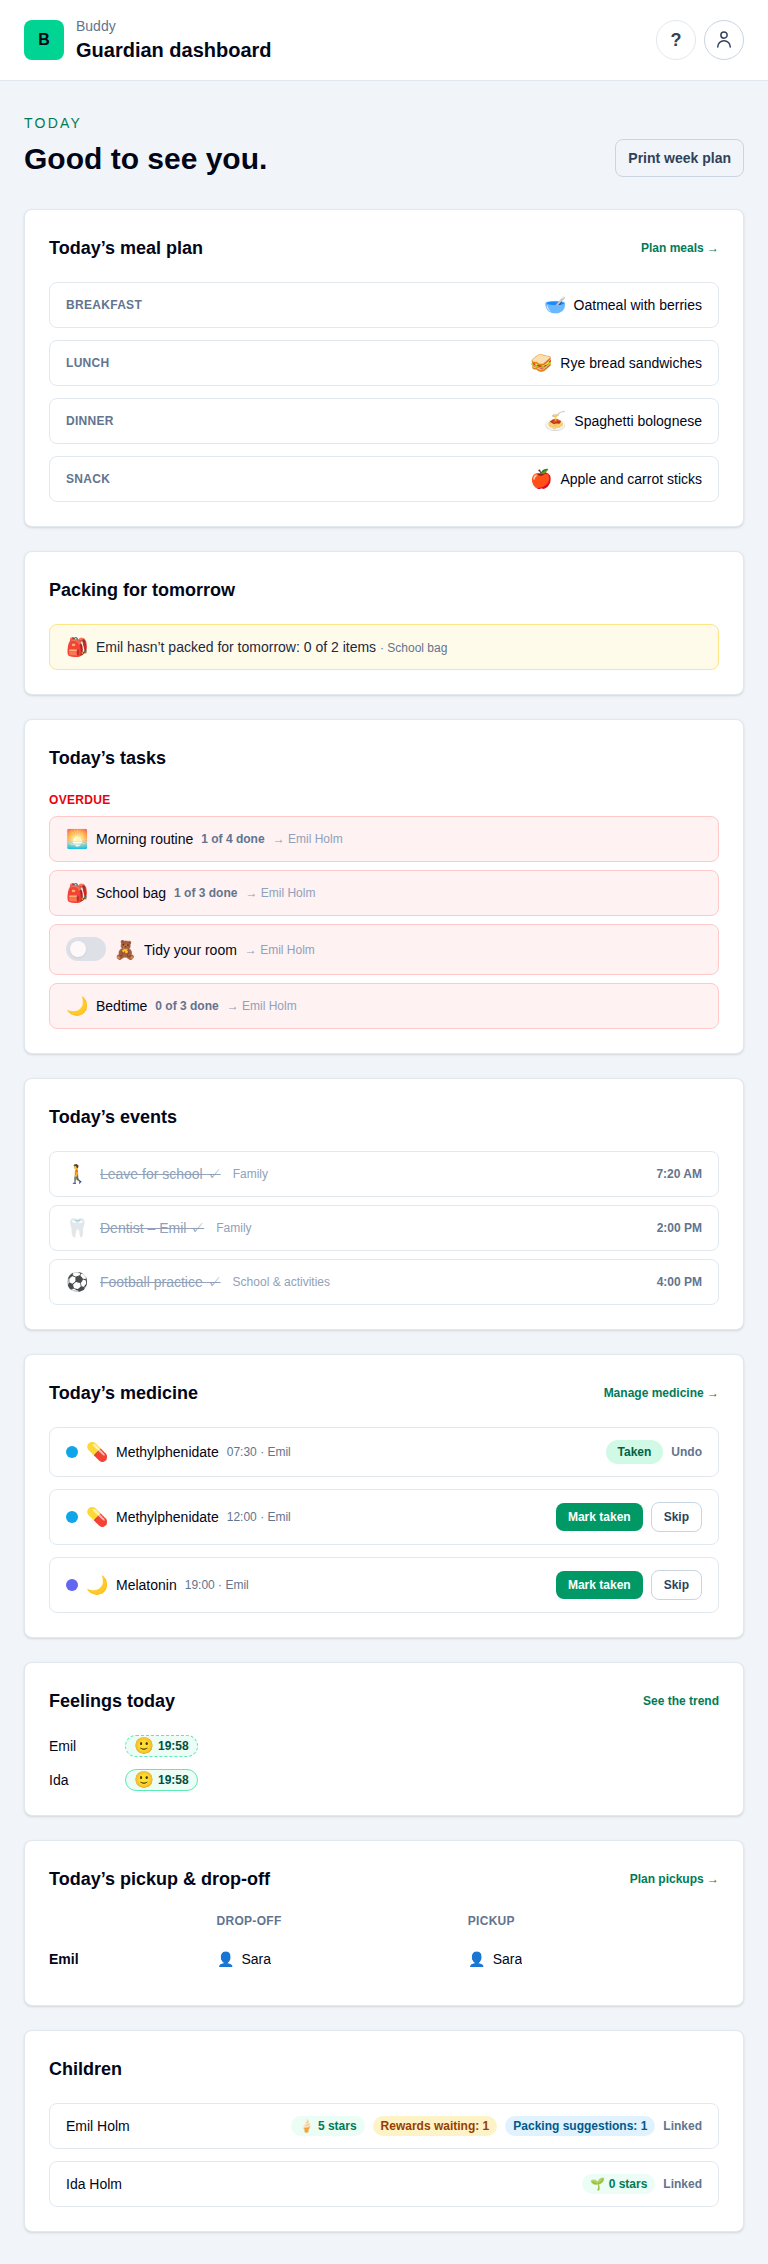
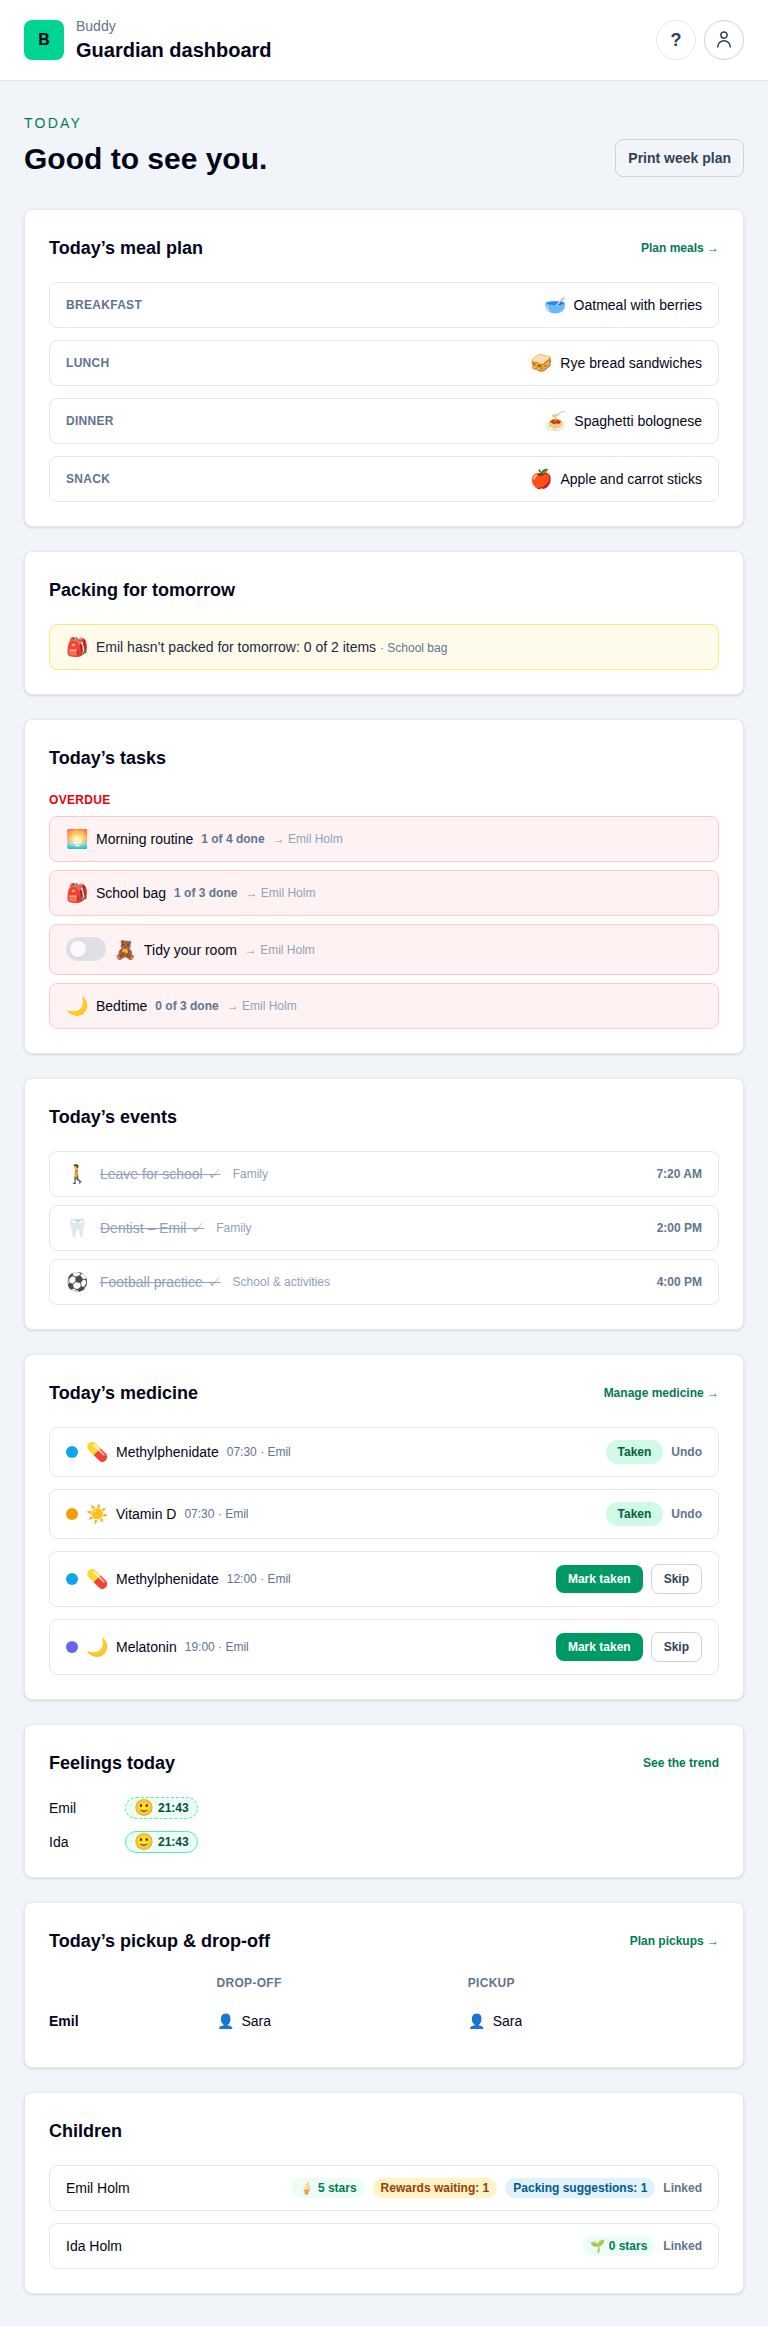
fix(feelings): group doses taken at the same time, in each medicine's colour
Two medicines at the same time drew identical violet lines on top of each
other, and screen readers heard "Medicine taken at 08:00" twice with no
names. The trend now draws one marker per time: a neutral guide line and a
square per medicine in its own colour (sorted by name), with a tooltip and
one screen-reader line naming each medicine and dosage. The demo family
gets a second 07:30 medicine and a week of taken doses, so the screenshot
shows a pair.

diff --git a/src/frontend/buddy/src/app/shared/feelings-trend/feelings-trend.ts b/src/frontend/buddy/src/app/shared/feelings-trend/feelings-trend.ts
@@ -1,5 +1,6 @@
 import { Component, computed, inject, input, output } from '@angular/core';
 
+import { sortByName } from '../../core/array-utils';
 import { addDaysIso, parseIsoDate } from '../../core/date-utils';
 import { TAG_LABEL_KEYS, toMinutes, zoneInfo } from '../../core/feelings';
 import type { FeelingCheckIn } from '../../core/feelings.service';
@@ -20,13 +21,32 @@ interface Mark {
   summary: string;
 }
 
+// One taken dose, as the guardian page passes it in.
+export interface TrendDose {
+  time: string;
+  name: string;
+  dosage: string;
+  color: string;
+}
+
+// The doses taken at one time of day: one guide line and a coloured square per medicine.
+interface DoseGroup {
+  time: string;
+  left: number;
+  medicines: { name: string; color: string }[];
+  label: string;
+}
+
 interface Row {
   date: string;
   label: string;
   sleep: { hours: number; minutes: number } | null;
   marks: Mark[];
-  doses: { time: string; left: number }[];
+  doses: DoseGroup[];
 }
+
+// The square's colour when a medicine has none: the violet the doses used before.
+const FALLBACK_DOSE_COLOR = '#8b5cf6';
 
 export function axisPercent(time: string): number {
   const minutes = Math.min(AXIS_END, Math.max(AXIS_START, toMinutes(time)));
@@ -36,7 +56,7 @@ export function axisPercent(time: string): number {
 /**
  * The 14-day grid (docs/backend/analysis/feelings-check-in.md, Question 7): one row per day, each
  * check-in a face on a time-of-day axis -- filled for the child's own, outlined for an adult's
- * observation -- with taken doses as lines and the previous night's sleep in its own column. A
+ * observation -- with taken doses as squares in the medicine's colour, grouped by time, and the previous night's sleep in its own column. A
  * plain table, no chart library; colour is never the only signal (face, shape and a screen-reader
  * summary per mark). The guardian page and the doctor's shared page both draw it; the shared page
  * leaves out sleep and doses.
@@ -53,8 +73,8 @@ export class FeelingsTrend {
   readonly checkIns = input.required<readonly FeelingCheckIn[]>();
   // Sleep minutes by the night's date (the evening it started); day D shows the night of D-1.
   readonly sleepByNight = input<Readonly<Record<string, number | null>> | null>(null);
-  // Taken dose times by date; null leaves the markers out.
-  readonly dosesByDate = input<Readonly<Record<string, readonly string[]>> | null>(null);
+  // Taken doses by date; null leaves the markers out.
+  readonly dosesByDate = input<Readonly<Record<string, readonly TrendDose[]>> | null>(null);
   readonly selectedDate = input<string | null>(null);
   readonly selectable = input(true);
 
@@ -91,12 +111,41 @@ export class FeelingsTrend {
         label: day.toLocaleDateString(locale, { weekday: 'short', day: 'numeric', month: 'short' }),
         sleep: night === null ? null : { hours: Math.floor(night / 60), minutes: night % 60 },
         marks: (byDate.get(date) ?? []).map((checkIn) => this.mark(checkIn)),
-        doses: (doses?.[date] ?? []).map((time) => ({ time, left: axisPercent(time) })),
+        doses: this.doseGroups(doses?.[date] ?? []),
       };
     });
   });
 
   protected readonly showSleep = computed(() => this.sleepByNight() !== null);
+
+  // Doses at the same time share one marker, so two medicines at 08:00 don't draw on top of each
+  // other; the label names every medicine, for the tooltip and screen readers. Sorted by name, so a
+  // medicine keeps its place in the marker from day to day.
+  private doseGroups(doses: readonly TrendDose[]): DoseGroup[] {
+    const byTime = new Map<string, TrendDose[]>();
+
+    for (const dose of doses) {
+      byTime.set(dose.time, [...(byTime.get(dose.time) ?? []), dose]);
+    }
+
+    return [...byTime.entries()]
+      .sort(([a], [b]) => a.localeCompare(b))
+      .map(([time, unsorted]) => [time, sortByName(unsorted)] as const)
+      .map(([time, group]) => ({
+        time,
+        left: axisPercent(time),
+        medicines: group.map((dose) => ({
+          name: dose.name,
+          color: dose.color || FALLBACK_DOSE_COLOR,
+        })),
+        label: this.translation.translate('feelings.guardian.trend.dose', {
+          time,
+          medicines: group
+            .map((dose) => (dose.dosage ? `${dose.name} ${dose.dosage}` : dose.name))
+            .join(', '),
+        }),
+      }));
+  }
 
   private mark(checkIn: FeelingCheckIn): Mark {
     const info = zoneInfo(checkIn.zone);

diff --git a/src/frontend/buddy/src/app/shared/feelings-trend/feelings-trend.spec.ts b/src/frontend/buddy/src/app/shared/feelings-trend/feelings-trend.spec.ts
@@ -79,13 +79,57 @@ describe('FeelingsTrend', () => {
   });
 
   it('marks taken doses only when doses are given', async () => {
-    const withDoses = await setup({ dosesByDate: { '2026-10-13': ['08:00'] } });
-    expect(row(withDoses.el, '2026-10-13').textContent).toContain('Medicine taken at 08:00');
-    expect(withDoses.el.textContent).toContain('Line: medicine taken');
+    const withDoses = await setup({
+      dosesByDate: {
+        '2026-10-13': [{ time: '08:00', name: 'Ritalin', dosage: '10 mg', color: '#2563eb' }],
+      },
+    });
+    expect(row(withDoses.el, '2026-10-13').textContent).toContain(
+      'Medicine taken at 08:00: Ritalin 10 mg',
+    );
+    expect(withDoses.el.textContent).toContain('Square: medicine taken, in its colour');
 
     TestBed.resetTestingModule();
     const without = await setup({});
     expect(without.el.textContent).not.toContain('medicine taken');
+  });
+
+  it('groups medicines taken at the same time into one marker, a square per medicine in its colour', async () => {
+    const { el } = await setup({
+      dosesByDate: {
+        '2026-10-13': [
+          { time: '19:30', name: 'Melatonin', dosage: '', color: '' },
+          // Out of name order, as the doses endpoint may return them.
+          { time: '08:00', name: 'Vitamin D', dosage: '1 tablet', color: '#f59e0b' },
+          { time: '08:00', name: 'Ritalin', dosage: '10 mg', color: '#2563eb' },
+        ],
+      },
+    });
+    const day = row(el, '2026-10-13');
+
+    const markers = Array.from(day.querySelectorAll<HTMLElement>('[data-dose-time]'));
+    expect(markers.map((marker) => marker.dataset['doseTime'])).toEqual(['08:00', '19:30']);
+    expect(markers[0].getAttribute('title')).toBe(
+      'Medicine taken at 08:00: Ritalin 10 mg, Vitamin D 1 tablet',
+    );
+
+    const squares = (marker: HTMLElement) =>
+      Array.from(marker.querySelectorAll<HTMLElement>('span')).map(
+        (square) => square.style.backgroundColor,
+      );
+    expect(squares(markers[0])).toEqual(['rgb(37, 99, 235)', 'rgb(245, 158, 11)']);
+    // A medicine without a colour (and without a dosage) still shows, in the fallback violet.
+    expect(squares(markers[1])).toEqual(['rgb(139, 92, 246)']);
+    expect(markers[1].getAttribute('title')).toBe('Medicine taken at 19:30: Melatonin');
+
+    // One screen-reader line per time, not one per dose.
+    const spoken = Array.from(day.querySelectorAll('ul.sr-only li')).map((li) =>
+      li.textContent!.trim(),
+    );
+    expect(spoken.filter((line) => line.startsWith('Medicine taken'))).toEqual([
+      'Medicine taken at 08:00: Ritalin 10 mg, Vitamin D 1 tablet',
+      'Medicine taken at 19:30: Melatonin',
+    ]);
   });
 
   it('selects a day, or shows plain dates when not selectable', async () => {

diff --git a/src/frontend/buddy/src/app/shared/feelings-trend/feelings-trend.html b/src/frontend/buddy/src/app/shared/feelings-trend/feelings-trend.html
@@ -72,10 +72,10 @@
                   [style.left.%]="hour.left"
                 ></span>
               }
-              @for (dose of row.doses; track $index) {
+              @for (dose of row.doses; track dose.time) {
                 <span
                   aria-hidden="true"
-                  class="absolute inset-y-1 w-0.5 rounded bg-violet-500 dark:bg-violet-400"
+                  class="absolute inset-y-1 w-px bg-slate-400 dark:bg-slate-500"
                   [style.left.%]="dose.left"
                 ></span>
               }
@@ -89,6 +89,22 @@
                   >{{ mark.face }}</span
                 >
               }
+              @for (dose of row.doses; track dose.time) {
+                <span
+                  class="absolute bottom-0 flex -translate-x-1/2 gap-px"
+                  [style.left.%]="dose.left"
+                  [attr.title]="dose.label"
+                  [attr.data-dose-time]="dose.time"
+                  aria-hidden="true"
+                >
+                  @for (medicine of dose.medicines; track $index) {
+                    <span
+                      class="block size-2 rounded-[2px] ring-1 ring-white dark:ring-slate-900"
+                      [style.background-color]="medicine.color"
+                    ></span>
+                  }
+                </span>
+              }
             </div>
             <ul class="sr-only">
               @for (mark of row.marks; track mark.id) {
@@ -96,8 +112,8 @@
               } @empty {
                 <li>{{ 'feelings.guardian.trend.none' | translate }}</li>
               }
-              @for (dose of row.doses; track $index) {
-                <li>{{ 'feelings.guardian.trend.dose' | translate: { time: dose.time } }}</li>
+              @for (dose of row.doses; track dose.time) {
+                <li>{{ dose.label }}</li>
               }
             </ul>
           </td>
@@ -124,10 +140,10 @@
   </li>
   @if (dosesByDate() !== null) {
     <li class="flex items-center gap-1.5">
-      <span
-        aria-hidden="true"
-        class="inline-block h-3 w-0.5 bg-violet-500 dark:bg-violet-400"
-      ></span>
+      <span aria-hidden="true" class="flex gap-px">
+        <span class="block size-2 rounded-[2px] bg-violet-500"></span>
+        <span class="block size-2 rounded-[2px] bg-amber-500"></span>
+      </span>
       {{ 'feelings.guardian.trend.legendDose' | translate }}
     </li>
   }

diff --git a/src/frontend/buddy/screenshots/demo-family.ts b/src/frontend/buddy/screenshots/demo-family.ts
@@ -694,7 +694,8 @@ export async function seedDemoFamily(): Promise<DemoFamily> {
       icon: '💊',
       color: '#0ea5e9',
       times: ['07:30:00', '12:00:00'],
-      startDate: mondayIso,
+      // Two weeks back, so the feelings trend has taken doses on the days it draws.
+      startDate: inDays(-13),
       endDate: null,
     });
     await api.post(`/medicines/children/${emil.id}/schedules`, {
@@ -706,11 +707,27 @@ export async function seedDemoFamily(): Promise<DemoFamily> {
       startDate: mondayIso,
       endDate: null,
     });
-    await api
-      .put(`/medicines/children/${emil.id}/doses/${ritalin.id}?date=${todayIso}&time=07:30:00`, {
-        status: 'Taken',
-      })
-      .catch(warn);
+    // A second morning medicine at the same time, so the feelings trend shows two doses grouped.
+    const vitaminD = await api.post<Named>(`/medicines/children/${emil.id}/schedules`, {
+      name: 'Vitamin D',
+      dosage: '1 tablet',
+      icon: '☀',
+      color: '#f59e0b',
+      times: ['07:30:00'],
+      startDate: inDays(-13),
+      endDate: null,
+    });
+    // The morning doses for the past week, today included.
+    for (let day = -6; day <= 0; day++) {
+      for (const schedule of [ritalin, vitaminD]) {
+        await api
+          .put(
+            `/medicines/children/${emil.id}/doses/${schedule.id}?date=${inDays(day)}&time=07:30:00`,
+            { status: 'Taken' },
+          )
+          .catch(warn);
+      }
+    }
 
     // Sleep diary ---------------------------------------------------------------------------
     // Ten nights ending last night (the form opens on tonight, still blank), varied a little so

diff --git a/src/frontend/buddy/src/app/features/guardian/feelings/feelings.ts b/src/frontend/buddy/src/app/features/guardian/feelings/feelings.ts
@@ -15,7 +15,7 @@ import { TranslationService } from '../../../core/i18n/translation.service';
 import { MedicinesService } from '../../../core/medicines.service';
 import { SleepDiaryService } from '../../../core/sleep-diary.service';
 import { Card } from '../../../shared/card/card';
-import { FeelingsTrend } from '../../../shared/feelings-trend/feelings-trend';
+import { FeelingsTrend, TrendDose } from '../../../shared/feelings-trend/feelings-trend';
 import { Page } from '../../../shared/page/page';
 import {
   SegmentedControl,
@@ -136,10 +136,13 @@ export class GuardianFeelings {
     params: () => (this.features.enabled('medicines') ? this.gridWindow() : undefined),
     loader: async ({ params }) => {
       const doses = await this.medicines.listDoses(params.childId, params.from, params.to);
-      const byDate: Record<string, string[]> = {};
+      const byDate: Record<string, TrendDose[]> = {};
 
       for (const dose of doses.filter((d) => d.status === 'Taken')) {
-        byDate[dose.date] = [...(byDate[dose.date] ?? []), dose.time.slice(0, 5)];
+        byDate[dose.date] = [
+          ...(byDate[dose.date] ?? []),
+          { time: dose.time.slice(0, 5), name: dose.name, dosage: dose.dosage, color: dose.color },
+        ];
       }
 
       return byDate;

diff --git a/src/frontend/buddy/src/app/features/guardian/feelings/feelings.spec.ts b/src/frontend/buddy/src/app/features/guardian/feelings/feelings.spec.ts
@@ -69,8 +69,22 @@ describe('GuardianFeelings', () => {
     } as unknown as SleepDiaryService;
     const medicines = {
       listDoses: vi.fn(async () => [
-        { date: TODAY, time: '07:45:00', status: 'Taken' },
-        { date: TODAY, time: '19:00:00', status: 'Pending' },
+        {
+          date: TODAY,
+          time: '07:45:00',
+          status: 'Taken',
+          name: 'Ritalin',
+          dosage: '10 mg',
+          color: '#2563eb',
+        },
+        {
+          date: TODAY,
+          time: '19:00:00',
+          status: 'Pending',
+          name: 'Melatonin',
+          dosage: '3 mg',
+          color: '#7c3aed',
+        },
       ]),
     } as unknown as MedicinesService;
 
@@ -99,7 +113,7 @@ describe('GuardianFeelings', () => {
 
     const todayRow = el.querySelector(`tr[data-date="${TODAY}"]`) as HTMLElement;
     expect(todayRow.textContent).toContain('10 h 0 min');
-    expect(todayRow.textContent).toContain('Medicine taken at 07:45');
+    expect(todayRow.textContent).toContain('Medicine taken at 07:45: Ritalin 10 mg');
     expect(todayRow.textContent).not.toContain('19:00');
     expect(todayRow.textContent).toContain('Wound up (yellow): Worried');
     // The old check-in is in the 8-week summary only.

diff --git a/src/frontend/buddy/src/app/core/i18n/translations/da/feelings.ts b/src/frontend/buddy/src/app/core/i18n/translations/da/feelings.ts
@@ -109,11 +109,11 @@ export const feelings = {
       day: 'Registreringer',
       noSleep: 'Ikke registreret',
       sleepValue: '{hours} t {minutes} min',
-      dose: 'Medicin taget kl. {time}',
+      dose: 'Medicin taget kl. {time}: {medicines}',
       none: 'Ingen registreringer',
       legendSelf: 'Udfyldt: barnets egen registrering',
       legendObservation: 'Omrids: en voksens observation',
-      legendDose: 'Streg: medicin taget',
+      legendDose: 'Firkant: medicin taget, i dens farve',
       summarySelf: '{time}, {zone}{tags}, af barnet',
       summaryObservation: '{time}, {zone}{tags}, observeret af en voksen',
       showDay: 'Vis {date}',

diff --git a/src/frontend/buddy/src/app/core/i18n/translations/en/feelings.ts b/src/frontend/buddy/src/app/core/i18n/translations/en/feelings.ts
@@ -109,11 +109,11 @@ export const feelings = {
       day: 'Check-ins',
       noSleep: 'Not logged',
       sleepValue: '{hours} h {minutes} min',
-      dose: 'Medicine taken at {time}',
+      dose: 'Medicine taken at {time}: {medicines}',
       none: 'No check-ins',
       legendSelf: 'Filled: the child’s own check-in',
       legendObservation: 'Outlined: an adult’s observation',
-      legendDose: 'Line: medicine taken',
+      legendDose: 'Square: medicine taken, in its colour',
       summarySelf: '{time}, {zone}{tags}, by the child',
       summaryObservation: '{time}, {zone}{tags}, observed by an adult',
       showDay: 'Show {date}',
